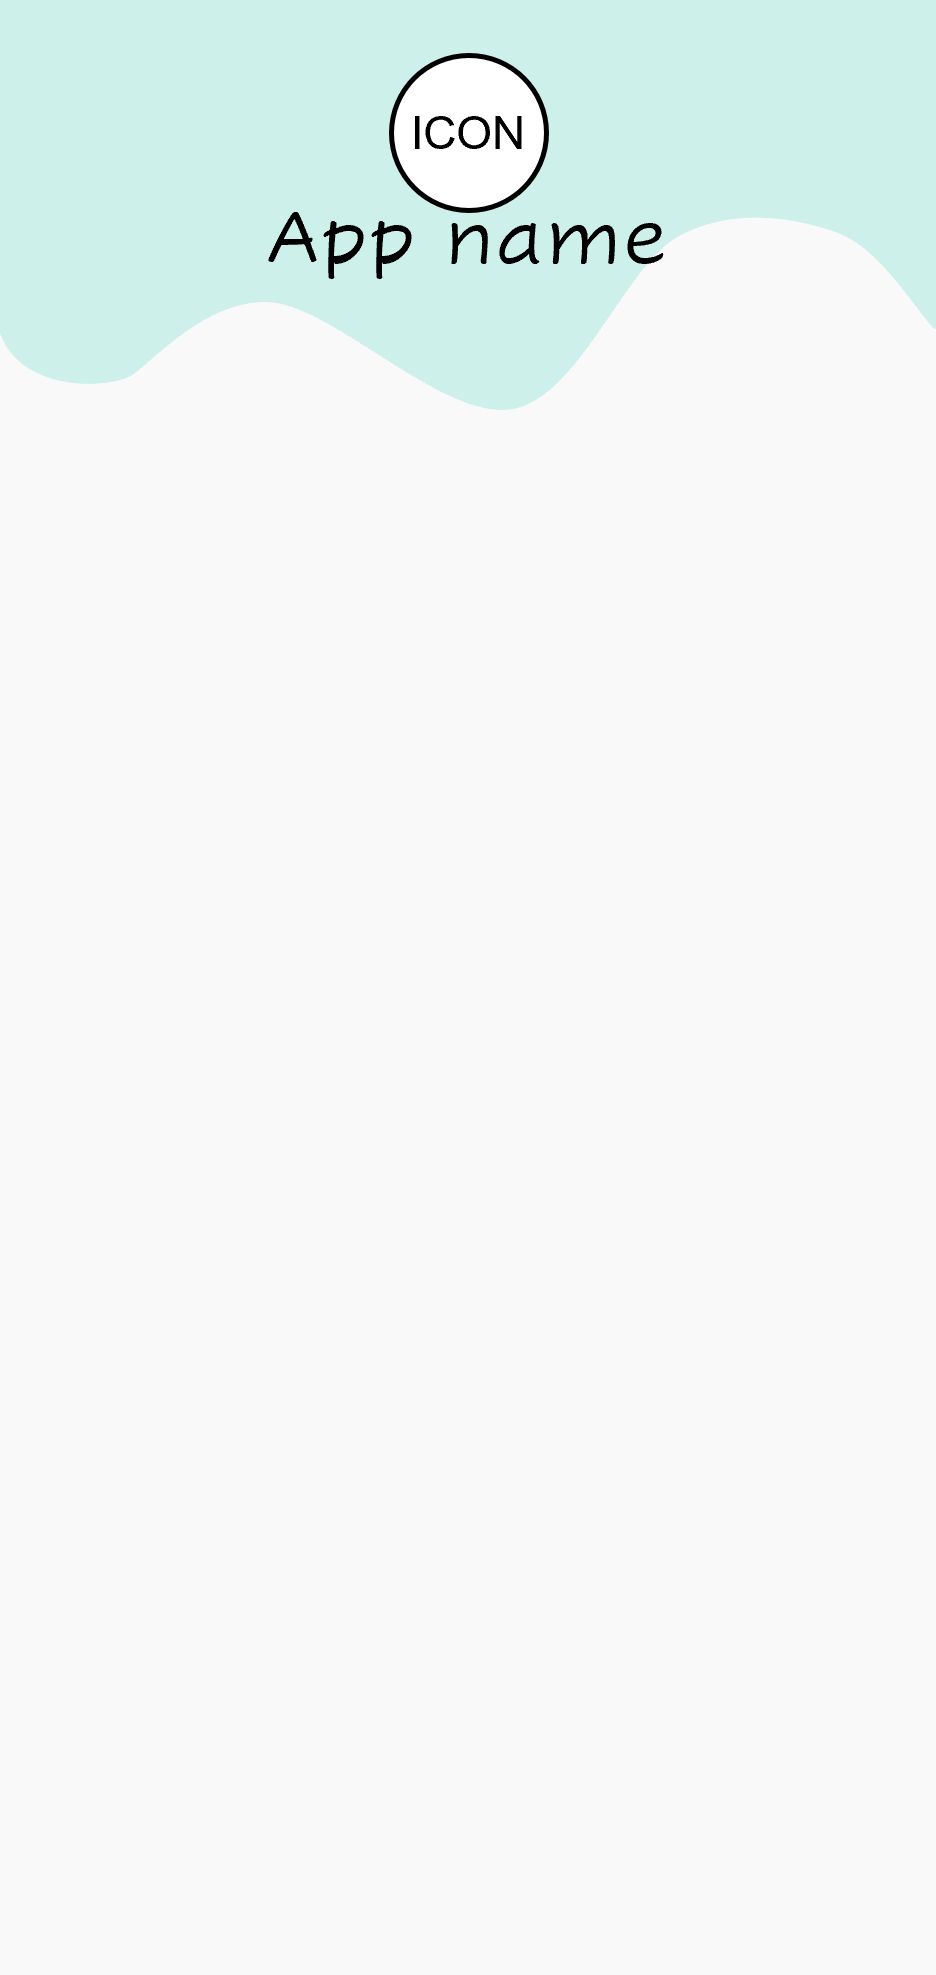
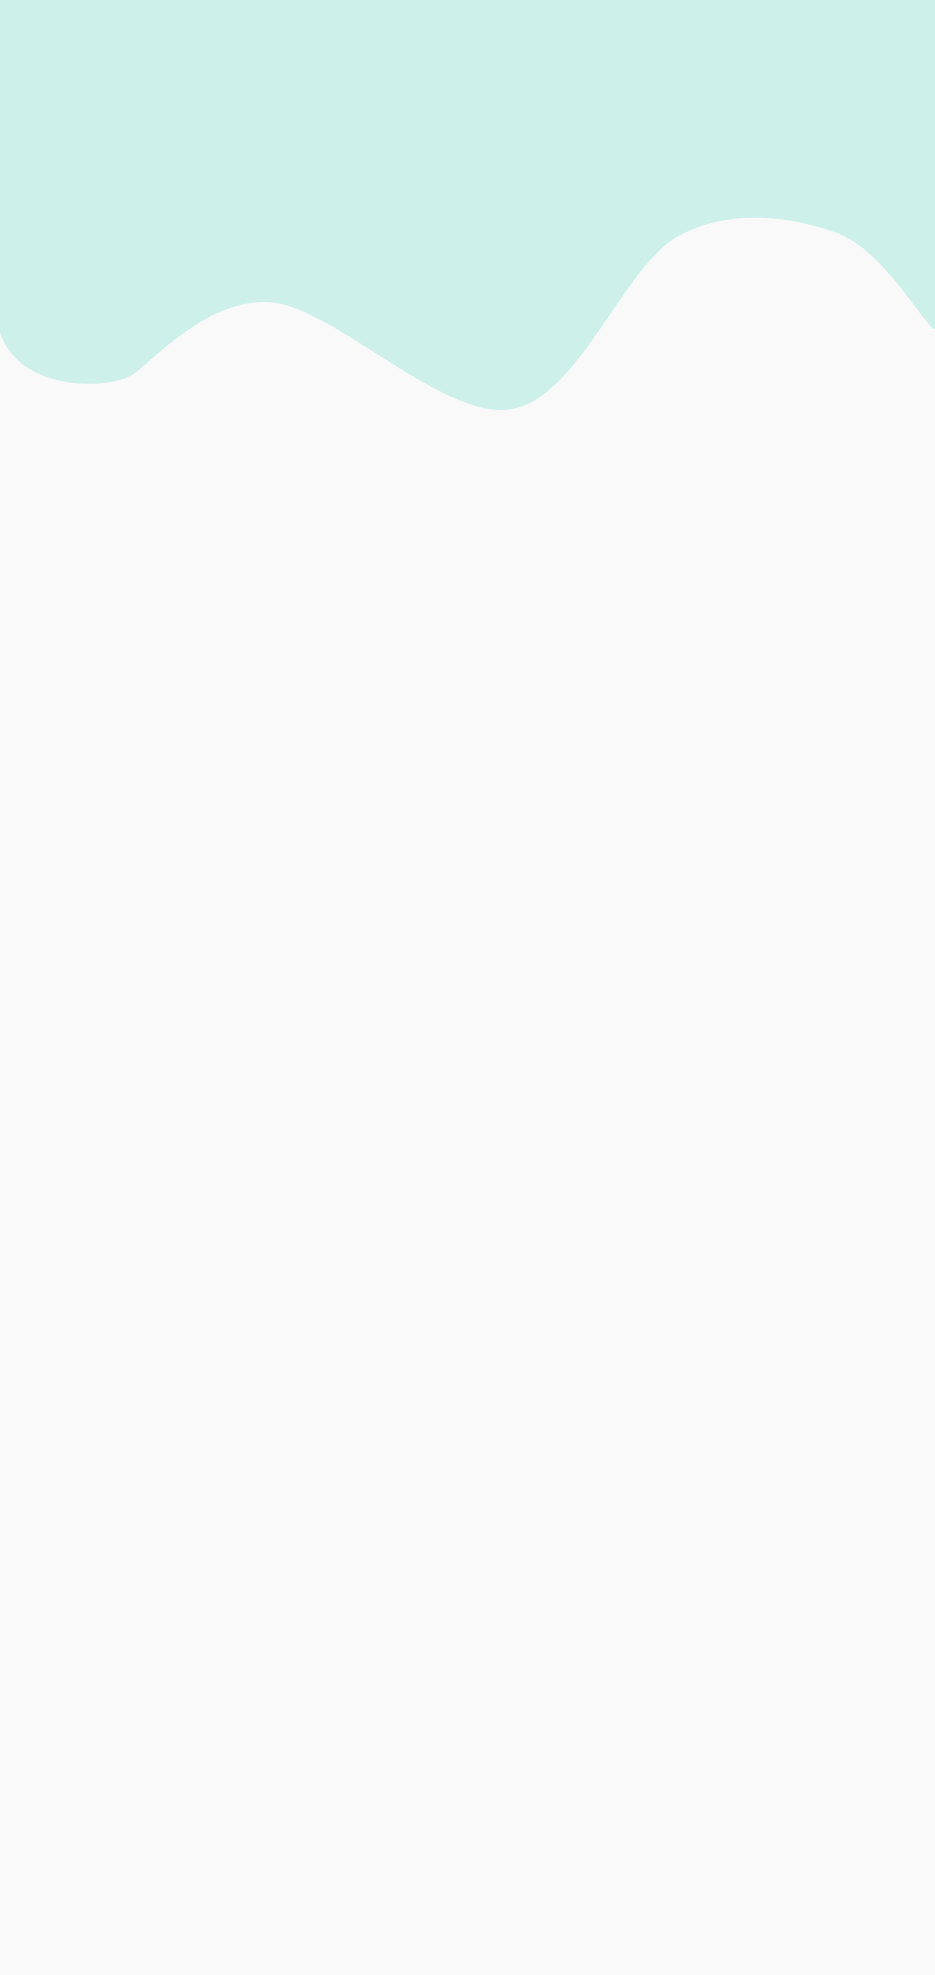
배경 수정

Changed region(s): [[0.2791, 0.0, 0.7134, 0.1544]]

diff --git a/lib/testPage.dart b/lib/testPage.dart
@@ -16,12 +16,26 @@ class TestPage extends StatelessWidget{
     child: Scaffold(
         backgroundColor: Colors.transparent,
         body: Column(
-          mainAxisAlignment: MainAxisAlignment.end,
+          // mainAxisAlignment: MainAxisAlignment.end,
           children: [
+            // 앱 상단 로고
+            Container(
+              padding: EdgeInsets.only(bottom: (MediaQuery.of(context).size.height - MediaQuery.of(context).padding.top) * 7 / 100),
+              height: (MediaQuery.of(context).size.height - MediaQuery.of(context).padding.top) * 25 / 100,
+              width: (MediaQuery.of(context).size.height - MediaQuery.of(context).padding.top) * 10 / 100,
+              // color: Colors.red,
+              child: Image.asset('assets/img/icon.png',)
+              // child: Column(
+              //   children: [
+              //
+              //   ],
+              // ),
+            ),
             // 세로 화면의 25% 비율부터 시작
             Container(
-              height: MediaQuery.of(context).size.height * 75 / 100,
+              height: (MediaQuery.of(context).size.height - MediaQuery.of(context).padding.top) * 75 / 100,
               width: MediaQuery.of(context).size.width,
+              // 여기서부터 찐 개발 시작
               child: Column(
                 children: [
                   ElevatedButton(onPressed: ()=>null, child: Text("여기서부터 개발하시면 됩니다"))
